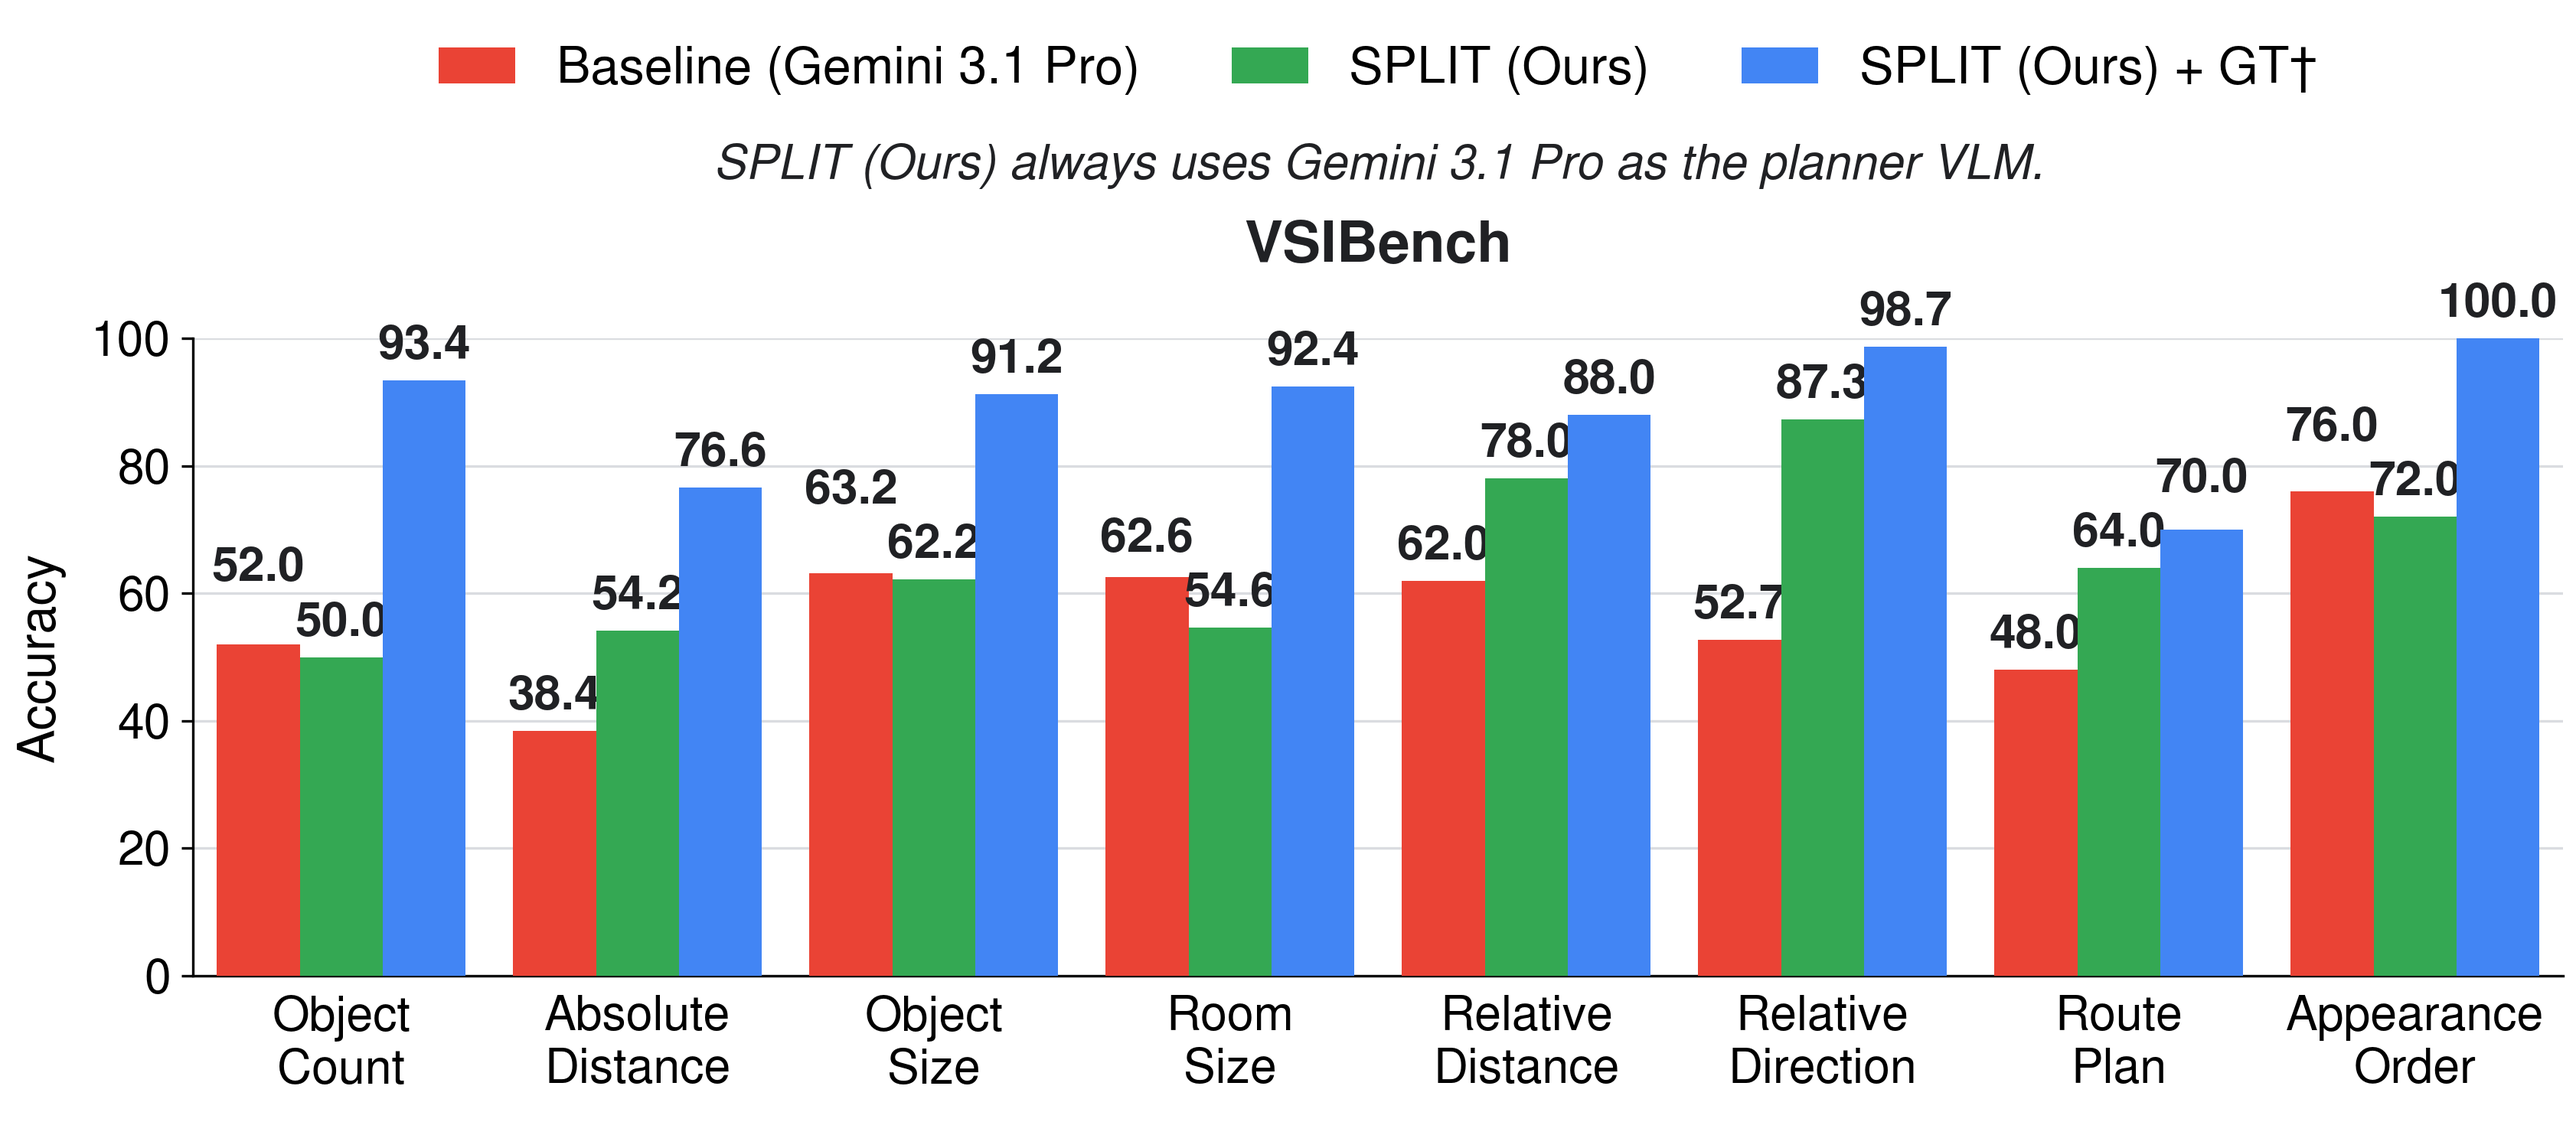
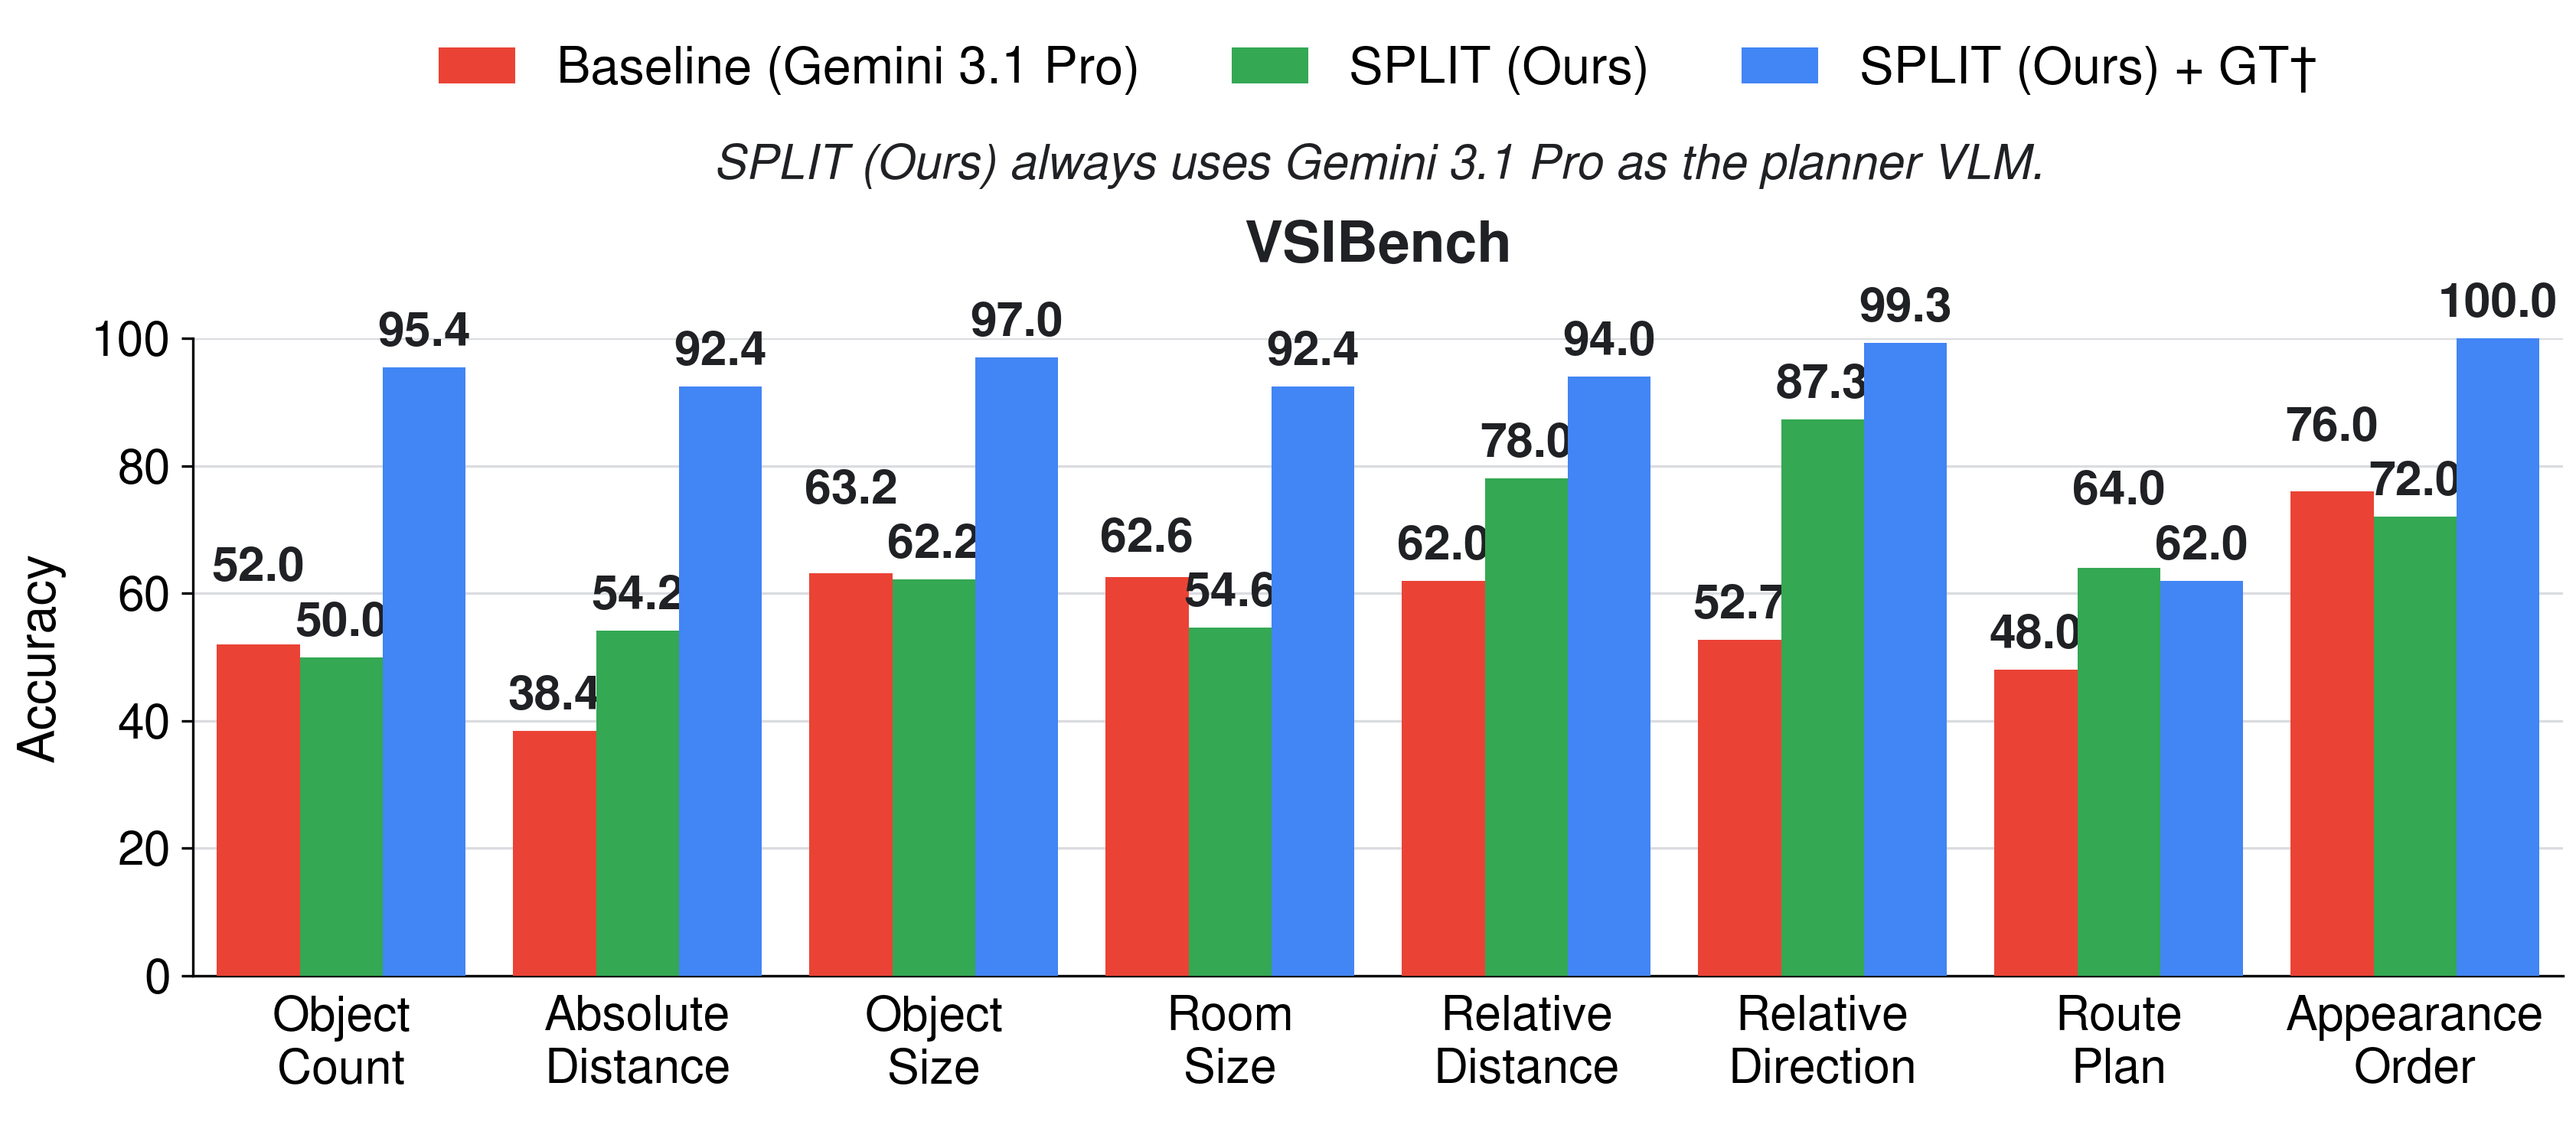
Corrected VSIBench ground-truth row (r1012, reviewed index roles): composite 91.6, Table 2 row, charts

diff --git a/index.html b/index.html
@@ -11,11 +11,13 @@
   <meta property="og:title" content="SPLIT: Perception, Not Reasoning, Limits Video Spatial Understanding">
   <meta property="og:description"
         content="Wearable AI assistants must track objects across egocentric video to help users in physical spaces. Current vision-language models (VLMs) struggle with spatial questions that require combining observations from different moments.">
-  <meta property="og:image" content="https://split-spatial.github.io/static/images/teaser_still.jpg">
+  <meta property="og:image" content="https://split-spatial.github.io/static/images/og_card.png">
+  <meta property="og:image:width" content="1200">
+  <meta property="og:image:height" content="630">
   <meta property="og:type" content="website">
   <meta name="twitter:card" content="summary_large_image">
   <meta name="twitter:title" content="SPLIT: Perception, Not Reasoning, Limits Video Spatial Understanding">
-  <meta name="twitter:image" content="https://split-spatial.github.io/static/images/teaser_still.jpg">
+  <meta name="twitter:image" content="https://split-spatial.github.io/static/images/og_card.png">
 
   <link href="https://fonts.googleapis.com/css?family=Google+Sans|Noto+Sans|Castoro"
         rel="stylesheet">
@@ -138,7 +140,7 @@
           planner VLM perception tools to query it. SPLIT achieves the best training-free score on
           VSIBench and the best published score on VSTIBench and ReVSI.</li>
         <li>Replacing the tools&rsquo; estimates with ground-truth measurements lifts SPLIT from
-          66.9 / 78.3 / 71.5 to 88.8 / 96.7 / 91.0 on VSIBench, VSTIBench, and ReVSI. Perception,
+          66.9 / 78.3 / 71.5 to 91.6 / 96.7 / 91.0 on VSIBench, VSTIBench, and ReVSI. Perception,
           not reasoning, limits current VLMs.</li>
       </ol>
     </div>
@@ -208,7 +210,7 @@
             <td>66.9 <span class="gain">(+6.5)</span></td>
             <td><b>78.3</b> <span class="gain">(+20.6)</span></td>
             <td><b>71.5</b> <span class="gain">(+7.7)</span></td></tr>
-          <tr><td class="method-col">SPLIT (Ours) + GT</td><td>88.8<sup>&dagger;</sup></td><td>96.7<sup>&dagger;</sup></td><td>91.0<sup>&dagger;</sup></td></tr>
+          <tr><td class="method-col">SPLIT (Ours) + GT</td><td>91.6<sup>&dagger;</sup></td><td>96.7<sup>&dagger;</sup></td><td>91.0<sup>&dagger;</sup></td></tr>
         </tbody>
       </table>
     </div>
@@ -262,7 +264,7 @@
           <tr class="ours-row"><td class="method-col"><b>SPLIT (Ours)</b></td><td>TF</td><td>65.8</td><td>50.9</td><td>56.4</td><td>60.2</td><td>57.5</td><td>71.6</td><td>86.7</td><td>71.1</td><td>72.3</td></tr>
           <tr class="delta-row"><td class="method-col">&Delta;</td><td></td><td><span class="gain">+8.3</span></td><td><span class="gain">+4.5</span></td><td><span class="gain">+15.2</span></td><td><span class="loss">-2.7</span></td><td><span class="gain">+2.8</span></td><td><span class="gain">+2.6</span></td><td><span class="gain">+24.4</span></td><td><span class="gain">+19.3</span></td><td><span class="gain">+0.6</span></td></tr>
           <tr class="group-row"><td colspan="11"><em>Ground-truth diagnostic</em><sup>&ddagger;</sup></td></tr>
-          <tr><td class="method-col">SPLIT (Ours) + GT</td><td>TF</td><td>88.8</td><td>93.4</td><td>76.6</td><td>91.2</td><td>92.4</td><td>88.0</td><td>98.7</td><td>70.0</td><td>100.0</td></tr>
+          <tr><td class="method-col">SPLIT (Ours) + GT</td><td>TF</td><td>91.6</td><td>95.4</td><td>92.4</td><td>97.0</td><td>92.4</td><td>94.0</td><td>99.3</td><td>62.0</td><td>100.0</td></tr>
         </tbody>
       </table>
     </div>

diff --git a/scripts/make_og_card.py b/scripts/make_og_card.py
@@ -1,0 +1,102 @@
+#!/usr/bin/env python
+"""Social link-preview card for the project page (static/images/og_card.png).
+
+The card is the og:image / twitter:image that messaging apps and social sites show next to
+the site link. It restates the teaser video's end card in the site's own look: Google Sans
+and the poster's Google palette (blue #4285F4, red #EA4335, green #34A853, ink #202124).
+
+Fonts: Google Sans 400/500/700 TrueType from the Google Fonts CSS API v1
+(`curl -A curl "https://fonts.googleapis.com/css?family=Google+Sans:400,500,700"` lists the
+.ttf URLs), cached in FONT_DIR. Set OG_FONT_DIR to point elsewhere.
+
+Numbers: the paper's Table 1 headline pair per benchmark (baseline Gemini 3.1 Pro -> SPLIT),
+the same six numbers as the teaser video's end card and the site's benchmark chart.
+
+Output: 1200 x 630 (the Open Graph aspect), rendered at 2x and downsampled, PNG under 300 KB
+so WhatsApp and Twitter accept it as a large preview.
+"""
+import os
+from PIL import Image, ImageDraw, ImageFont
+
+HERE = os.path.dirname(os.path.abspath(__file__))
+OUT = os.path.join(HERE, "..", "static", "images", "og_card.png")
+FONT_DIR = os.environ.get("OG_FONT_DIR", "/data2/jjyeung/tools/fonts/google_sans")
+
+BLUE, RED, GREEN = "#4285F4", "#EA4335", "#34A853"
+INK, GRAY, LIGHT = "#202124", "#5F6368", "#9AA0A6"
+WHITE = "#FFFFFF"
+
+W, H, S = 1200, 630, 2                      # og size, supersampling factor
+TITLE = ["Perception, Not Reasoning,", "Limits Video Spatial Understanding"]
+SUBTITLE = "SPLIT: Separating Perception from LLM Inference with Tools"
+BENCH = [("VSIBench", "60.4", "66.9"), ("VSTIBench", "57.7", "78.3"), ("ReVSI", "63.8", "71.5")]
+LEGEND = [(RED, "Baseline (Gemini 3.1 Pro)"), (GREEN, "SPLIT (Ours)")]
+CLAIM = "up to 1.9x less error than the same VLM without tools"
+
+
+def font(weight, size):
+    return ImageFont.truetype(os.path.join(FONT_DIR, f"GoogleSans-{weight}.ttf"), int(size * S))
+
+
+def text_w(draw, s, f):
+    l, _, r, _ = draw.textbbox((0, 0), s, font=f)
+    return r - l
+
+
+def arrow(draw, x0, x1, y, color, lw):
+    """Right-pointing arrow from x0 to x1 (page units), centred on y."""
+    x0, x1, y, lw = x0 * S, x1 * S, y * S, lw * S
+    head = 3.2 * lw
+    draw.line([(x0, y), (x1 - head * 0.6, y)], fill=color, width=int(lw))
+    draw.polygon([(x1, y), (x1 - head, y - head * 0.62), (x1 - head, y + head * 0.62)], fill=color)
+
+
+def main():
+    im = Image.new("RGB", (W * S, H * S), WHITE)
+    d = ImageDraw.Draw(im)
+
+    # Poster header colours as a thin band across the top: blue, red, green.
+    band = 8 * S
+    for i, c in enumerate((BLUE, RED, GREEN)):
+        d.rectangle([i * W * S / 3, 0, (i + 1) * W * S / 3, band], fill=c)
+
+    cx = W / 2
+    f_title, f_sub = font(700, 52), font(500, 25)
+    d.text((cx * S, 118 * S), TITLE[0], font=f_title, fill=INK, anchor="ms")
+    d.text((cx * S, 178 * S), TITLE[1], font=f_title, fill=INK, anchor="ms")
+    d.text((cx * S, 232 * S), SUBTITLE, font=f_sub, fill=GRAY, anchor="ms")
+
+    # Three benchmark columns: name, then "baseline -> SPLIT" in red -> green.
+    f_name, f_num = font(500, 23), font(700, 58)
+    gap = 38                                   # half-width reserved for the arrow
+    for k, (name, base, ours) in enumerate(BENCH):
+        col = W * (2 * k + 1) / 6
+        d.text((col * S, 322 * S), name, font=f_name, fill=INK, anchor="ms")
+        d.text(((col - gap) * S, 396 * S), base, font=f_num, fill=RED, anchor="rs")
+        d.text(((col + gap) * S, 396 * S), ours, font=f_num, fill=GREEN, anchor="ls")
+        arrow(d, col - gap + 12, col + gap - 12, 376, LIGHT, 4)
+
+    # One legend row under the columns.
+    f_leg = font(400, 21)
+    dot, pad, sep = 8, 10, 44
+    widths = [dot * 2 + pad + text_w(d, t, f_leg) / S for _, t in LEGEND]
+    x = cx - (sum(widths) + sep * (len(LEGEND) - 1)) / 2
+    for (c, t), w in zip(LEGEND, widths):
+        cy = 462
+        d.ellipse([(x) * S, (cy - dot) * S, (x + 2 * dot) * S, (cy + dot) * S], fill=c)
+        d.text(((x + 2 * dot + pad) * S, (cy + 7.5) * S), t, font=f_leg, fill=GRAY, anchor="ls")
+        x += w + sep
+
+    f_claim = font(500, 26)
+    d.text((cx * S, 556 * S), CLAIM, font=f_claim, fill=INK, anchor="ms")
+
+    im = im.resize((W, H), Image.LANCZOS)
+    im.save(OUT, optimize=True)
+    kb = os.path.getsize(OUT) / 1024
+    print(f"wrote {os.path.abspath(OUT)}  {W}x{H}  {kb:.0f} KB")
+    if kb > 300:
+        raise SystemExit("og image over 300 KB; WhatsApp may skip the large preview")
+
+
+if __name__ == "__main__":
+    main()

diff --git a/scripts/make_site_category_bars.py b/scripts/make_site_category_bars.py
@@ -49,11 +49,11 @@ BENCH = {
               "Relative\nDistance", "Relative\nDirection", "Route\nPlan", "Appearance\nOrder"],
         baseline=[52.0, 38.4, 63.2, 62.6, 62.0, 52.7, 48.0, 76.0],
         split=[50.0, 54.2, 62.2, 54.6, 78.0, 87.3, 64.0, 72.0],
-        split_gt=[93.4, 76.6, 91.2, 92.4, 88.0, 98.7, 70.0, 100.0],
+        split_gt=[95.4, 92.4, 97.0, 92.4, 94.0, 99.3, 62.0, 100.0],
         # macro check against the printed composites (unrounded relative direction)
         check=(([52.0, 38.4, 63.2, 62.6, 62.0, (60 + 64 + 34) / 3, 48.0, 76.0], 56.8583),
                ([50.0, 54.2, 62.2, 54.6, 78.0, (94 + 88 + 80) / 3, 64.0, 72.0], 65.2917),
-               ([93.4, 76.6, 91.2, 92.4, 88.0, (100 + 96 + 100) / 3, 70.0, 100.0], 88.7833)),
+               ([95.4, 92.4, 97.0, 92.4, 94.0, 99.3, 62.0, 100.0], 91.6000)),
     ),
     "revsi": dict(
         title="ReVSI", out="revsi_category_bars.png",

diff --git a/ASSETS.md b/ASSETS.md
@@ -39,6 +39,7 @@ The re-encode keeps the source geometry and timing: 1920x1080, 30 fps, 73.80 s.
 | `static/images/walkthrough.png` | `/home/jjyeung/agent-project-paper/figure_kit/fig1_hero_trace/variant_b_q1851/hero_figure_filled_v16_user_5frames.pdf` | 300 dpi render-and-trim recipe |
 | `static/images/benchmark_bars.png` | poster kit `make_benchmark_bars.py` run by `scripts/make_site_charts.sh` (dagger on the GT legend entry) | `bash scripts/make_site_charts.sh` |
 | `static/images/vsti_category_bars.png` | poster kit `make_category_bars.py` run by `scripts/make_site_charts.sh` (dagger on the GT legend entry) | `bash scripts/make_site_charts.sh` |
+| `static/images/og_card.png` | `scripts/make_og_card.py`: the `og:image` / `twitter:image` link-preview card (Google Sans, poster palette, the Table 1 headline pair per benchmark); fonts cached at `/data2/jjyeung/tools/fonts/google_sans/`, download command in the script docstring | `python scripts/make_og_card.py` |
 
 `sample_question.png` shows panel (a) of the paper teaser figure. Deleting the shapes listed
 above removes the panel (b) column and the two panel captions.
